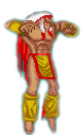
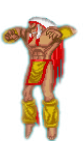
flipped the images

diff --git a/index.js b/index.js
@@ -82,6 +82,9 @@ const enemy = new Fighter({
     x: -50,
     y: 0,
   },
+
+  isMirrored: true,
+
   imageSrc: './assets/redman/redman.idle.png',
   framesMax: 2,
   scale: 1.2,
@@ -114,6 +117,7 @@ const enemy = new Fighter({
     
   }
 });
+
 
 console.log(player);
 

diff --git a/jsDir/classes.js b/jsDir/classes.js
@@ -11,6 +11,7 @@ class Sprite {
     this.framesElapsed = 0
     this.framesHold = 10
     this.offset = offset
+    this.isMirrored = false; 
   }
 
   draw() {
